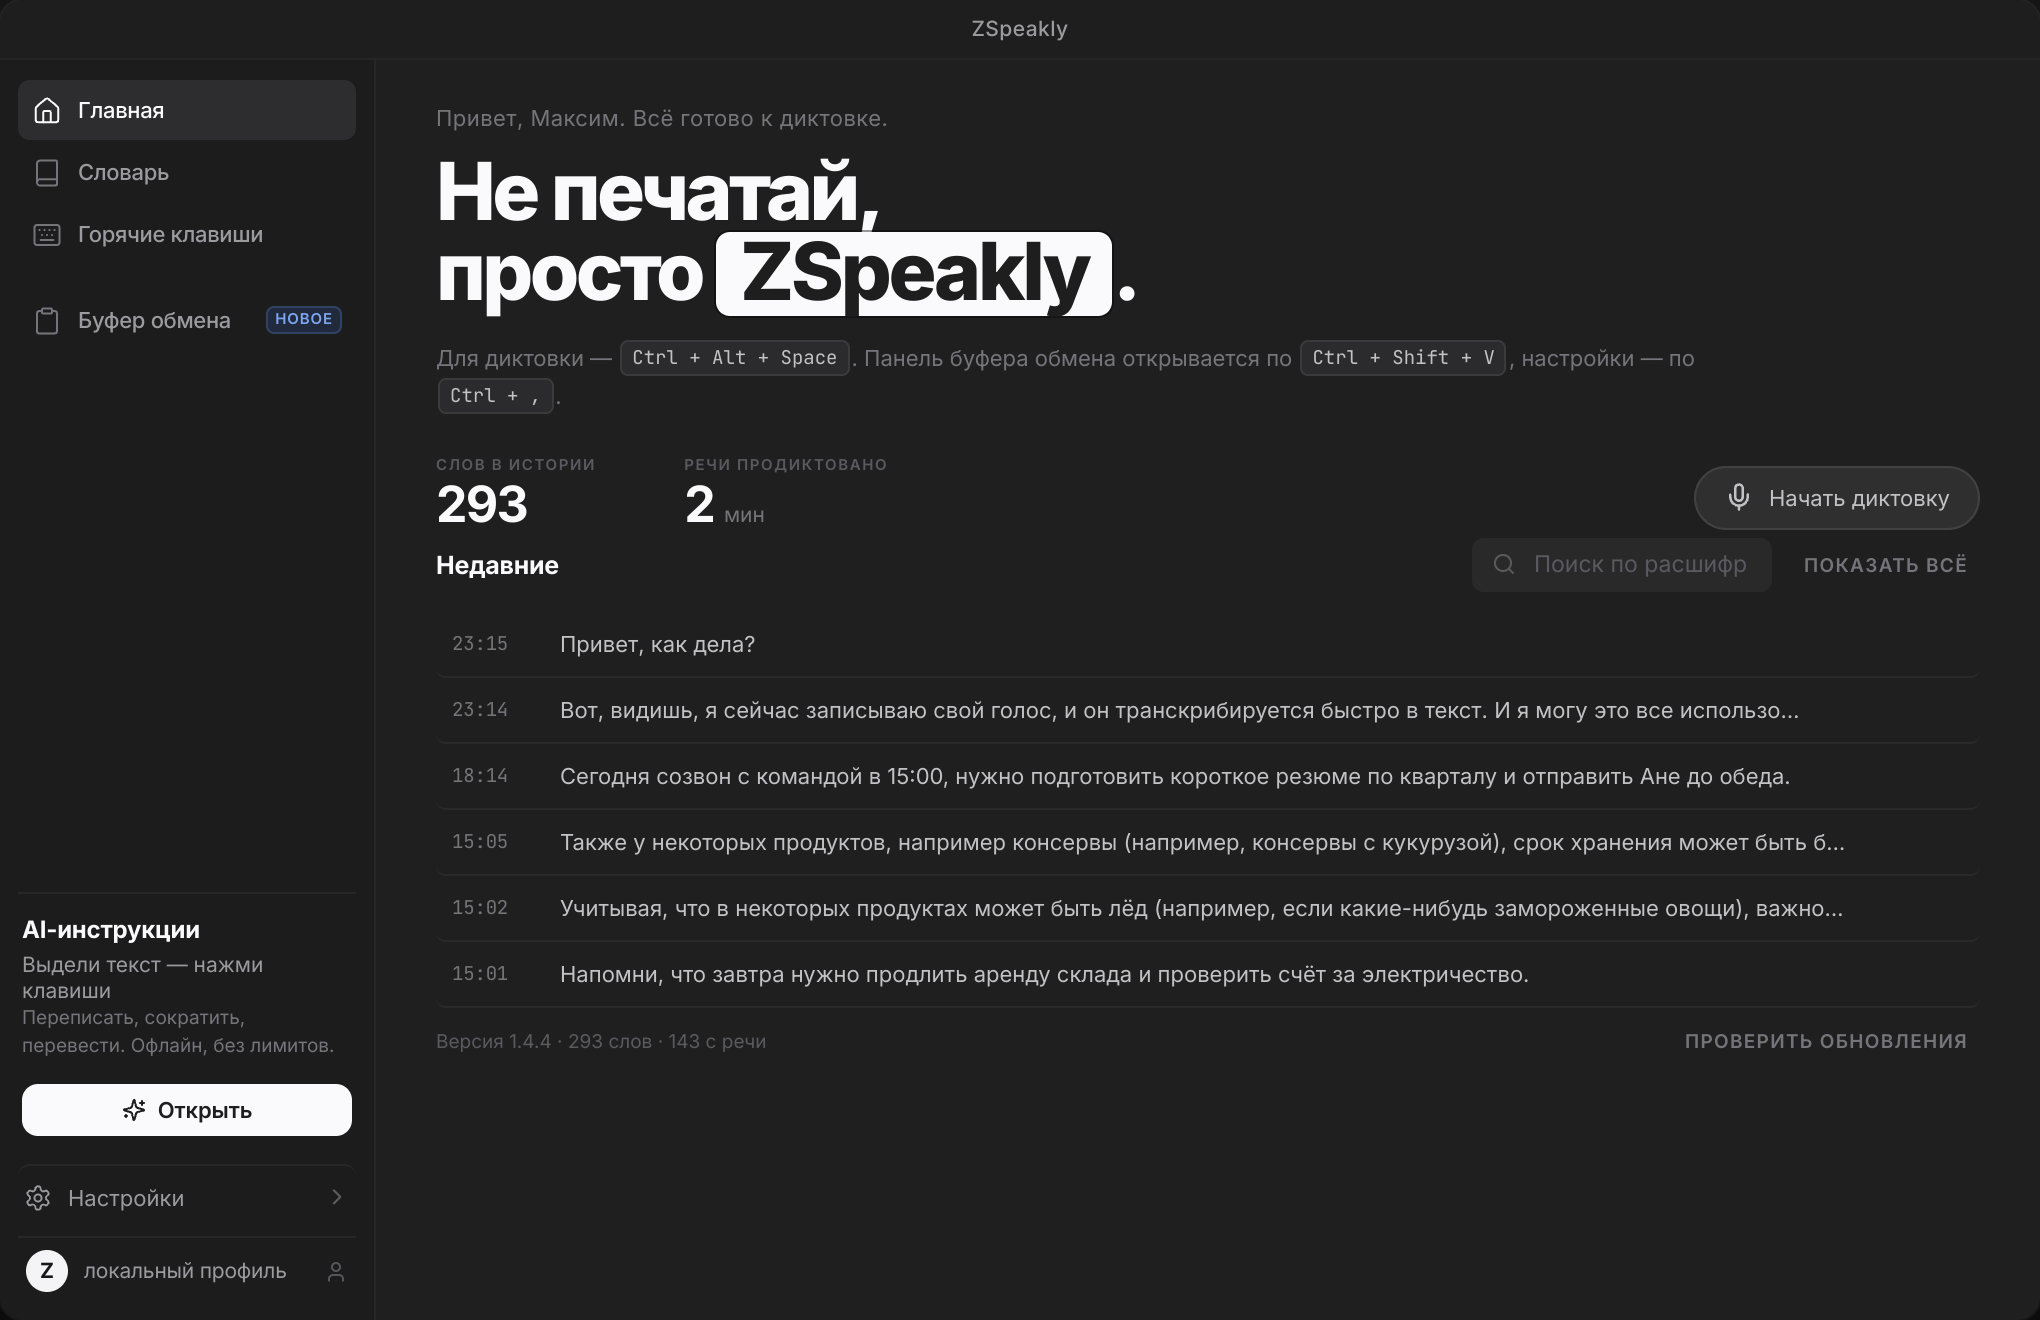
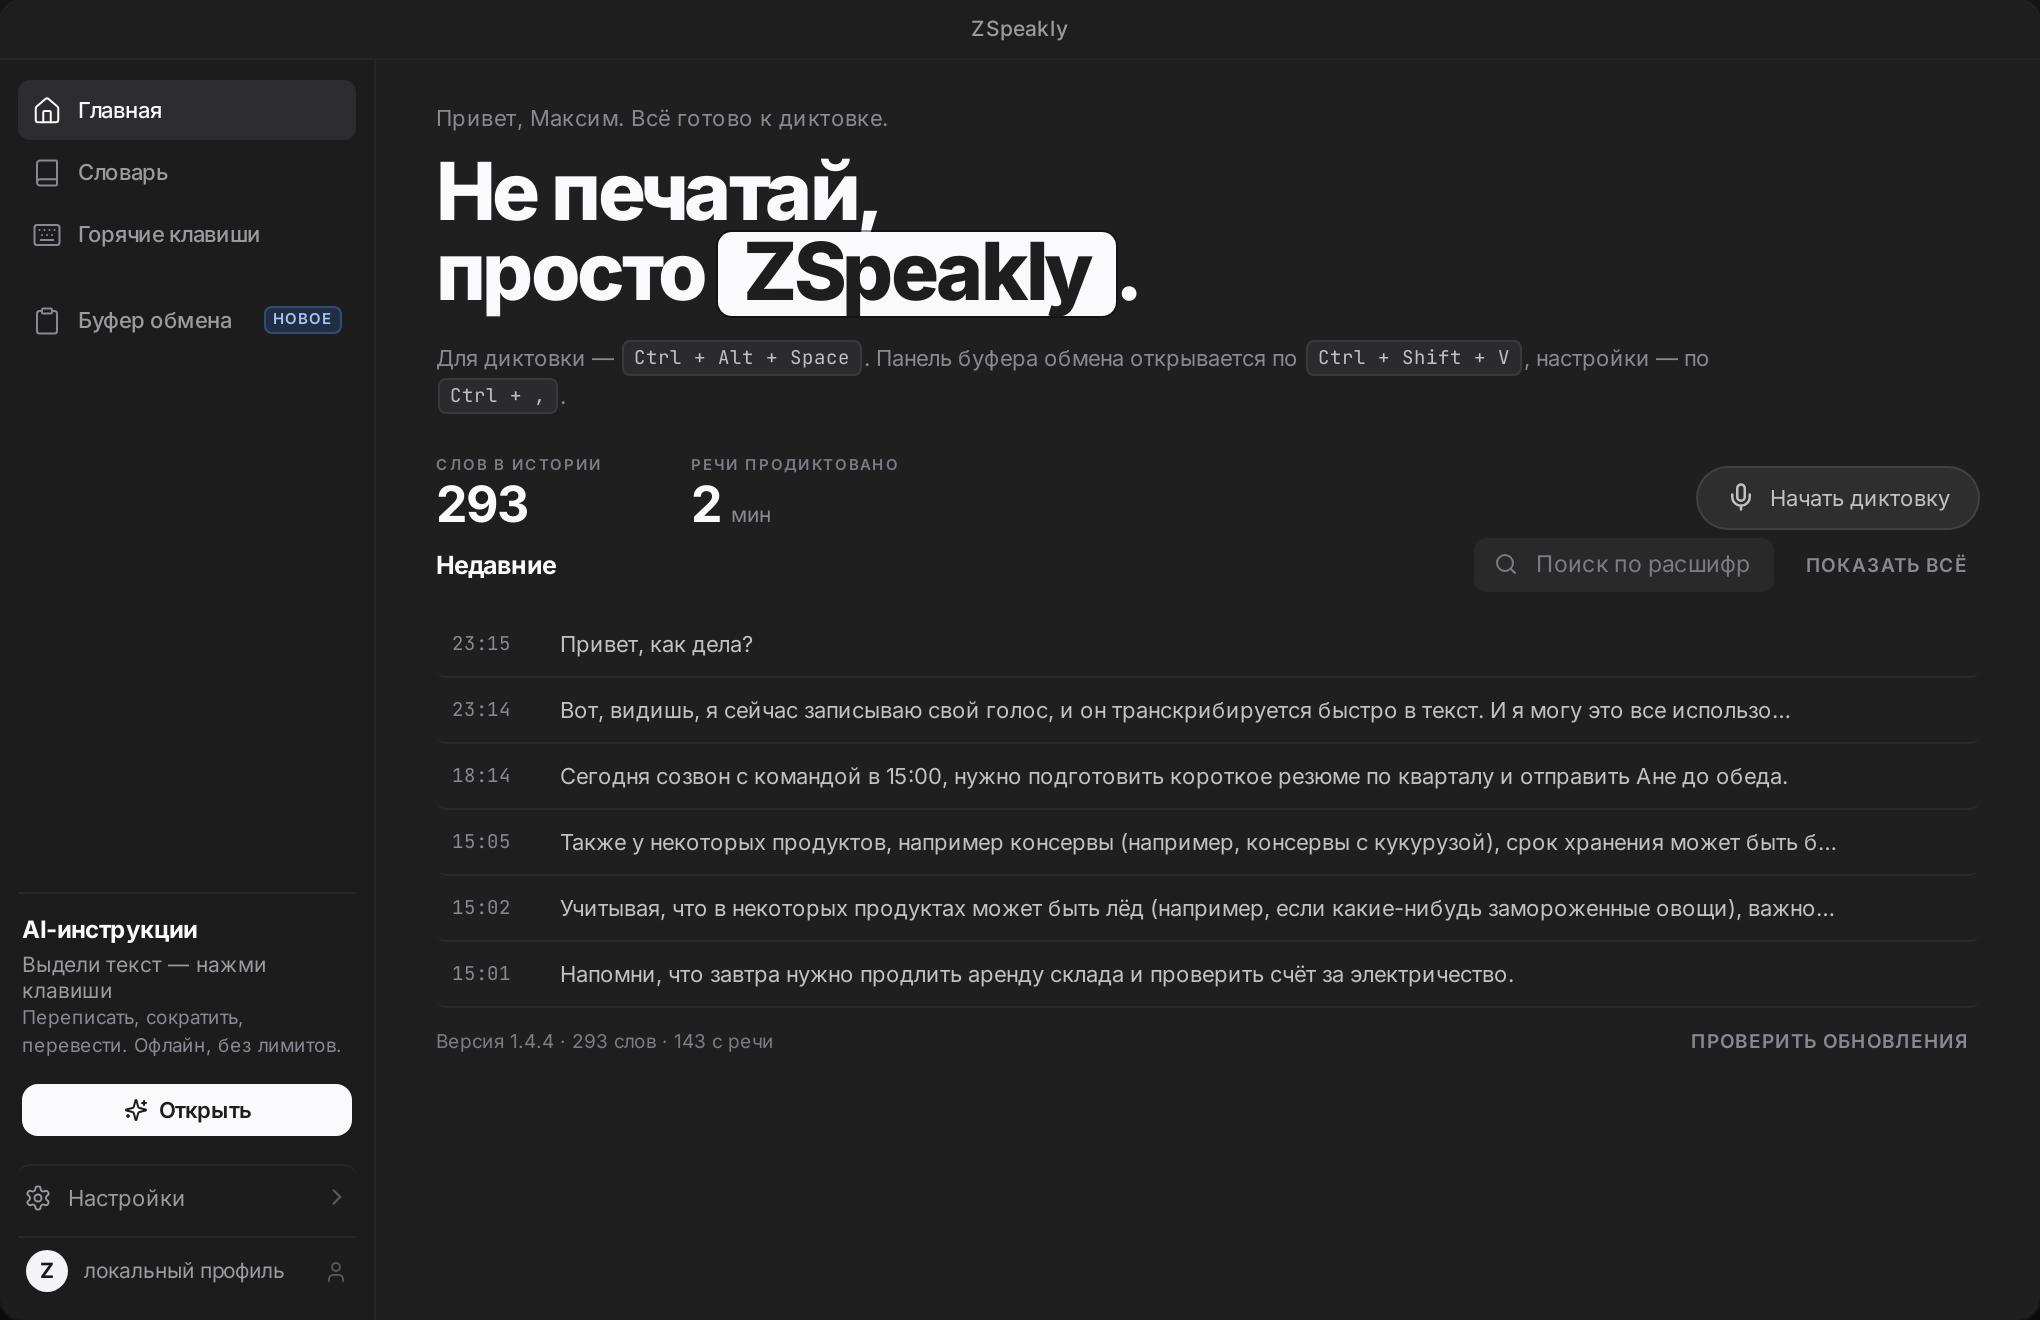
Читаемость: контраст текста, плашка «НОВОЕ», светлые экраны
Автопроверка вида в E2E (обе темы, шесть экранов):
- считает реальный контраст каждого текстового узла (с наложением
  полупрозрачных фонов) и падает ниже 3:1;
- ищет элементы, вылезающие за окно или обрезающие содержимое
  (многоточие — не баг, учитывается отдельно).

Что нашлось и исправлено:
- подписи и даты были 2.38:1: --text-4/--text-5 подняты до 4.3–4.4:1
  в тёмной теме и до ~4.3:1 в светлой (даты в словаре, «слов в истории»,
  подвал истории);
- плашка «НОВОЕ» в светлой теме давала 1.5:1 (голубой на голубом) — теперь
  токены --badge-new-* для обеих тем;
- чипы ТЕКСТ/ФОРМАТ в карточках буфера: 2.8:1 → --text-4.

Скриншоты: добавлены светлые горячие клавиши, буфер и словарь (12–14),
README-галерея и docs/09 обновлены.

Проверки: npm test 100/100, test:main 24/24, test:ui 77/77 (417 нажатий).

diff --git a/src/styles/base.css b/src/styles/base.css
@@ -32,8 +32,8 @@
   --text: #faf9fc;
   --text-2: #c2c1c4;
   --text-3: #9b9a9e;
-  --text-4: #75747a;
-  --text-5: #5a595f;
+  --text-4: #8a8992;
+  --text-5: #7d7c85;
 
   --green: #15c660;
   --green-dim: #12a552;
@@ -61,6 +61,11 @@
      rgba(var(--overlay-rgb), α). В тёмной теме это белый, в светлой — чёрный,
      поэтому одни и те же значения работают в обеих темах. */
   --overlay-rgb: 255, 255, 255;
+
+  /* Плашка «НОВОЕ»: в тёмной теме голубая на просвет, в светлой — синяя на белом */
+  --badge-new-text: #a8c4f7;
+  --badge-new-bg: rgba(48, 91, 168, 0.28);
+  --badge-new-border: rgba(90, 140, 224, 0.32);
 }
 
 * {
@@ -208,8 +213,8 @@ a {
     --text: #14141a;
     --text-2: #3b3b45;
     --text-3: #5b5b66;
-    --text-4: #7b7b87;
-    --text-5: #9a9aa5;
+    --text-4: #6d6d78;
+    --text-5: #74747f;
 
     --bg-toggle-off: #c8c8d0;
     --bg-key: #f0f0f3;
@@ -217,6 +222,10 @@ a {
     --bg-menu: #ffffff;
 
     --overlay-rgb: 0, 0, 0;
+
+    --badge-new-text: #1d4f9f;
+    --badge-new-bg: rgba(48, 91, 168, 0.12);
+    --badge-new-border: rgba(48, 91, 168, 0.26);
   }
 }
 
@@ -239,8 +248,8 @@ html[data-theme='light'] {
   --text: #14141a;
   --text-2: #3b3b45;
   --text-3: #5b5b66;
-  --text-4: #7b7b87;
-  --text-5: #9a9aa5;
+  --text-4: #6d6d78;
+  --text-5: #74747f;
 
   --bg-toggle-off: #c8c8d0;
   --bg-key: #f0f0f3;
@@ -248,4 +257,8 @@ html[data-theme='light'] {
   --bg-menu: #ffffff;
 
   --overlay-rgb: 0, 0, 0;
+
+  --badge-new-text: #1d4f9f;
+  --badge-new-bg: rgba(48, 91, 168, 0.12);
+  --badge-new-border: rgba(48, 91, 168, 0.26);
 }

diff --git a/src/styles/layout.css b/src/styles/layout.css
@@ -168,9 +168,9 @@ body.web .app-shell {
   font-size: 7.5px;
   font-weight: 600;
   letter-spacing: 0.06em;
-  color: #7ea6f0;
-  background: rgba(48, 91, 168, 0.22);
-  border: 1px solid rgba(90, 140, 224, 0.24);
+  color: var(--badge-new-text);
+  background: var(--badge-new-bg);
+  border: 1px solid var(--badge-new-border);
   border-radius: 4px;
   padding: 1px 3.5px;
   line-height: 1.3;
@@ -179,9 +179,9 @@ body.web .app-shell {
 
 .badge-new--inline {
   margin-left: 6px;
-  background: rgba(48, 91, 168, 0.3);
-  border-color: rgba(90, 140, 224, 0.3);
-  color: #8fb4f5;
+  background: var(--badge-new-bg);
+  border-color: var(--badge-new-border);
+  color: var(--badge-new-text);
 }
 
 .sidebar__bottom {

diff --git a/src/styles/pages.css b/src/styles/pages.css
@@ -1113,7 +1113,8 @@
   font-size: 7.5px;
   font-weight: 700;
   letter-spacing: 0.09em;
-  color: var(--text-5);
+  /* мелкий капс: --text-5 на плашке давал 2.8:1 */
+  color: var(--text-4);
   background: rgba(var(--overlay-rgb), 0.055);
   border-radius: 3px;
   padding: 2px 4px;

diff --git a/docs/09-CODE-MAP.md b/docs/09-CODE-MAP.md
@@ -104,7 +104,9 @@
 | Путь | Назначение |
 | --- | --- |
 | `scripts/check-ipc.mjs` | Сверяет `invoke/send` из preload с `ipcMain.handle/on` |
-| `scripts/smoke-main.mjs` | Грузит `main.cjs` с заглушкой Electron, проверяет 15 сценариев |
+| `scripts/smoke-main.mjs` | Грузит `main.cjs` с заглушкой Electron: 24 проверки — IPC, хоткеи, подсказка whisper (словарь + контекст экрана, ≤500), HTTP к локальной модели, снимок экрана |
+| `scripts/test-ui.mjs` + `scripts/e2e/mock-bridge.mjs` | E2E в Chromium: мок моста `window.zspeakly` с журналом вызовов, обход всех кнопок/полей на каждом экране, 40 сценариев поведения, автопроверка контраста и переполнения в обеих темах |
+| `scripts/capture-screenshots.mjs` | 14 кадров интерфейса (тёмная и светлая темы) прямо из работающего Vite |
 | `scripts/smoke-updater.mjs` | Канал stable/beta реально применяется |
 | `scripts/build-settings-index.mjs` | Генерирует индекс строк настроек для поиска (`--check` для CI) |
 | `scripts/dev-electron.mjs` | Vite + Electron с горячей перезагрузкой |
@@ -278,8 +280,9 @@ Windows (с ретраями, кэшем Electron, фолбэком в ZIP, ес
 ## 12. Проверки перед коммитом
 
 ```bash
-npm test                  # 95 тестов (vitest + jsdom)
-npm run test:main         # 15 смоук-проверок main-процесса
+npm test                  # 100 тестов (vitest + jsdom)
+npm run test:main         # 24 смоук-проверки main-процесса
+npm run test:ui           # E2E: обход кнопок, 40 сценариев, контраст/вёрстка
 npm run check:ipc         # ни одного канала без обработчика
 npm run test:updater      # каналы обновлений
 npm run settings:index:check

diff --git a/README.md b/README.md
@@ -86,6 +86,8 @@
 | | |
 |---|---|
 | ![Светлая тема — главная](docs/screenshots/09-light-home.png) | ![Светлая тема — настройки](docs/screenshots/10-light-settings.png) |
+| ![Светлая тема — горячие клавиши](docs/screenshots/12-light-hotkeys.png) | ![Светлая тема — буфер обмена](docs/screenshots/13-light-clipboard.png) |
+| ![Светлая тема — словарь](docs/screenshots/14-light-dictionary.png) | |
 
 ## Стек
 
@@ -203,8 +205,9 @@ powershell -ExecutionPolicy Bypass -File scripts\download-models.ps1
 ```bash
 npm run dev        # только UI
 npm run electron:dev
-npm test                    # vitest: 63 теста
-npm run test:main           # смоук IPC/хоткеев/вставки main-процесса (15 проверок)
+npm test                    # vitest: 100 тестов
+npm run test:main           # смоук IPC, whisper --prompt, HTTP к Ollama, снимок экрана (24 проверки)
+npm run test:ui             # E2E «нажать всё» в Chromium: кнопки, поля, сценарии, контраст
 npm run test:updater        # каналы обновлений (stable/beta)
 npm run check:ipc           # нет каналов без обработчика
 npm run settings:index      # пересобрать индекс поиска по настройкам
